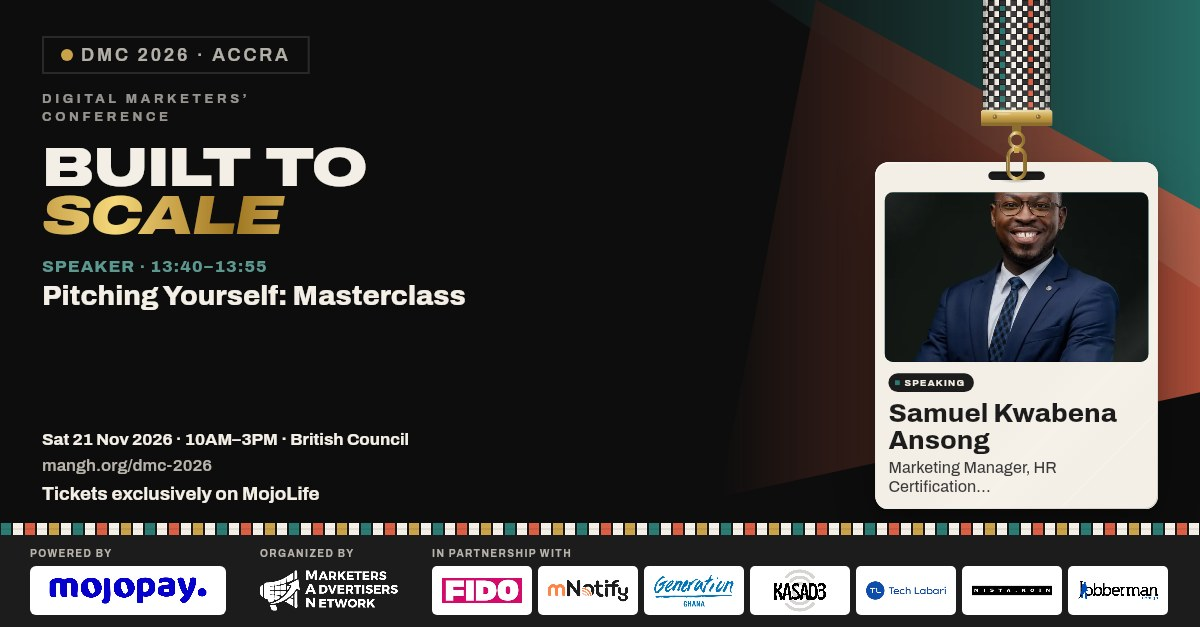
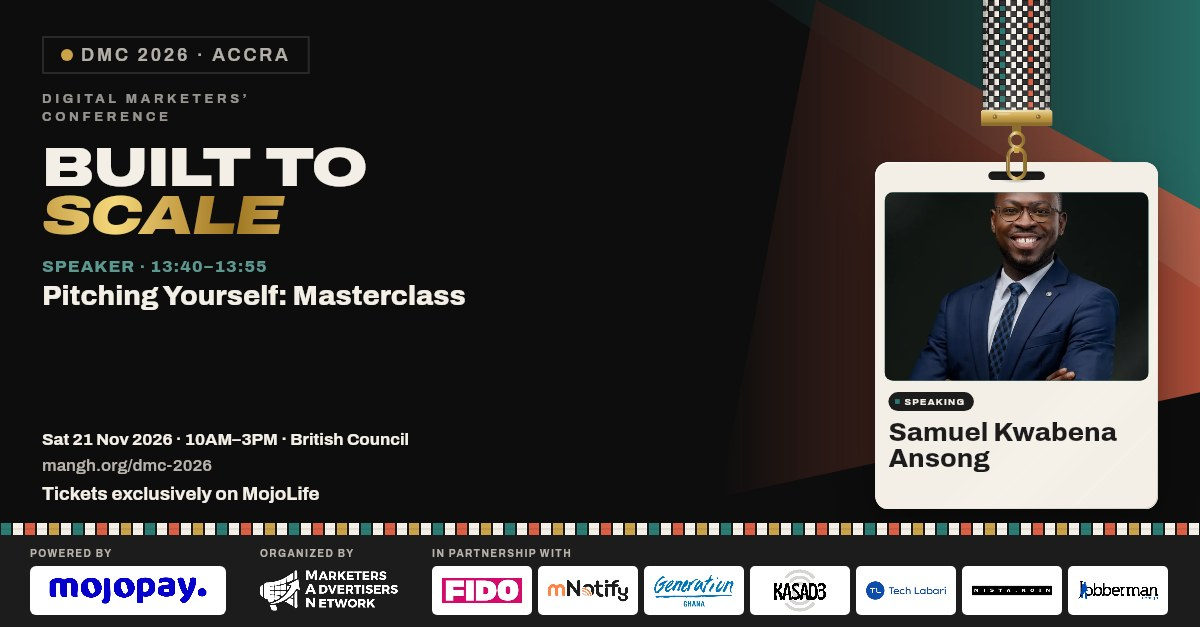
content: Enoch W. Kabange (not Enoch K. Weguri); Samuel Kwabena Ansong by name only (#60)
- Enoch's name on the speaker card, alt text, schedule, FAQ (HTML and JSON-LD), full bio,
  llm.txt/llms.txt and Studio data; Studio slug becomes enoch-w-kabange (he has no speaker page).
- Samuel: role line, bio sentence, press list role, llm/llms role, Studio title/company,
  speaker page meta description, JSON-LD jobTitle/worksFor and role line all removed.
- Studio renderer: a speaker with no role no longer gets the flyer's grey "Your role" hint
  (it showed on Samuel's regenerated OG image).

Changed region(s): [[0.74, 0.303, 0.9558, 0.7879]]

diff --git a/dmc-2026.html b/dmc-2026.html
@@ -232,7 +232,7 @@
    "name": "Who is speaking?",
    "acceptedAnswer": {
     "@type": "Answer",
-    "text": "Confirmed so far: Isaac Newton Acquah, Alex Offei Lartey, Ronald Tagoe, Emelia Dede Quist, Kwaku Ofosuhene, Sena Quashie, Simon Alangde, Florentia Teye, Yvonne Dumor, Elikplim Yaa Ayegbe, Carrington Amuh and Samuel Kwabena Ansong, with Alice Mensah, Enoch “RobotBoy” Appiah Jr. and Enoch K. Weguri as moderators, Deborah Narh as emcee, and a keynote from Russel Eni. Breakout sessions are led by Venus Tawiah, Priscilla Osei-Wusu and Amma Odamea Amoako. Meet the speakers."
+    "text": "Confirmed so far: Isaac Newton Acquah, Alex Offei Lartey, Ronald Tagoe, Emelia Dede Quist, Kwaku Ofosuhene, Sena Quashie, Simon Alangde, Florentia Teye, Yvonne Dumor, Elikplim Yaa Ayegbe, Carrington Amuh and Samuel Kwabena Ansong, with Alice Mensah, Enoch “RobotBoy” Appiah Jr. and Enoch W. Kabange as moderators, Deborah Narh as emcee, and a keynote from Russel Eni. Breakout sessions are led by Venus Tawiah, Priscilla Osei-Wusu and Amma Odamea Amoako. Meet the speakers."
    }
   },
   {
@@ -384,7 +384,7 @@
       <div class="srow sr d2"><div class="st"><div class="ti">10:00</div><div class="ap">10:10</div></div><div class="sb"><span class="badge b-drs">Welcome</span><h3>Welcome &amp; Opening Remarks</h3><div class="sd">Naomi Boakyewaa Kokuro</div></div></div>
       <div class="srow sr d3"><div class="st"><div class="ti">10:10</div><div class="ap">10:25</div></div><div class="sb mov"><span class="badge b-key">Keynote</span><h3>Keynote</h3><div class="sd">Russel Eni</div></div></div>
       <div class="srow sr d1"><div class="st"><div class="ti">10:25</div><div class="ap">10:35</div></div><div class="sb mov"><span class="badge b-key">Presentation</span><h3>Build Yourself: Presentation</h3><div class="sd">Isaac Newton Acquah</div></div></div>
-      <div class="srow sr d2"><div class="st"><div class="ti">10:35</div><div class="ap">11:05</div></div><div class="sb mov"><span class="badge b-key">Panel</span><h3>Build Yourself: Panel Discussion</h3><div class="sd">Alex Offei Lartey · Ronald Tagoe · Emelia Dede Quist — moderated by Enoch K. Weguri</div></div></div>
+      <div class="srow sr d2"><div class="st"><div class="ti">10:35</div><div class="ap">11:05</div></div><div class="sb mov"><span class="badge b-key">Panel</span><h3>Build Yourself: Panel Discussion</h3><div class="sd">Alex Offei Lartey · Ronald Tagoe · Emelia Dede Quist — moderated by Enoch W. Kabange</div></div></div>
       <div class="srow sr d3"><div class="st"><div class="ti">11:05</div><div class="ap">11:15</div></div><div class="sb"><span class="badge b-brk">Break</span><h3>Morning Network Break</h3></div></div>
       <div class="srow sr d1"><div class="st"><div class="ti">11:15</div><div class="ap">11:25</div></div><div class="sb mov"><span class="badge b-key">Presentation</span><h3>Build Your Team: Presentation</h3><div class="sd">Kwaku Ofosuhene · MojoPay</div></div></div>
       <div class="srow sr d2"><div class="st"><div class="ti">11:25</div><div class="ap">11:55</div></div><div class="sb mov"><span class="badge b-key">Panel</span><h3>Build Your Team: Panel Discussion</h3><div class="sd">Sena Quashie · Simon Alangde · Florentia Teye — moderated by Alice Mensah</div></div></div>
@@ -422,7 +422,7 @@
       <div class="spc sr d2"><div class="sp-photo"><img src="/assets/speakers/alex-offei-lartey.webp" alt="Alex Offei Lartey" width="900" height="1200" loading="lazy" decoding="async"></div><div class="sp-info"><div class="spc-cat">Panel · Build Yourself</div><div class="spn">Alex Offei Lartey</div><div class="sp-role">Marketing Communications &amp; Digital Solutions Consultant</div><div class="sp-bio">15+ years across tech, banking, telecom and upstream oil &amp; gas. Leads corporate affairs at GNPC Explorco.</div><details class="sp-more"><summary>Full bio</summary><p>Alex has 15+ years of experience in tech, banking, telecom and upstream oil and gas, with expertise in digital solutions and marketing communications. He leads corporate affairs at GNPC Explorco and previously led digital communications and commercial innovation at AT Ghana, formerly AirtelTigo. He also consults for the African Union Youth Division, Mind Builders Africa and NCVO, facilitating masterclasses on digital skills and communication for young people and startups. He was named Digital Influencer of the Year at the 2022 Ghana Information Technology &amp; Telecom Awards, Digital Marketing Personality of the Year at the National Communications Awards, and Internal Communicator of the Year at the 2017 National PR Excellence Awards.</p></details><a class="sp-page" href="/speakers/alex-offei-lartey">Speaker profile →</a></div></div>
       <div class="spc sr d3"><div class="sp-photo"><img src="/assets/speakers/ronald-tagoe.webp" alt="Ronald Tagoe" width="765" height="1020" loading="lazy" decoding="async"></div><div class="sp-info"><div class="spc-cat">Panel · Build Yourself</div><div class="spn">Ronald Tagoe</div><div class="sp-role">Founder &amp; CEO, mNotify · Founder, Impact AI Labs</div><div class="sp-bio">Technology entrepreneur and AI advocate helping organisations across Africa adopt emerging technologies to improve communication, productivity and service delivery.</div><details class="sp-more"><summary>Full bio</summary><p>Ronald Tagoe is a technology entrepreneur, Artificial Intelligence advocate and digital transformation facilitator with over a decade of experience supporting organisations across Africa to adopt emerging technologies. He is the Founder and CEO of mNotify, a leading customer engagement technology company in Ghana whose communication and automation platforms are used by businesses, NGOs and institutions to engage millions of users across Africa. He is also the Founder of Impact AI Labs, an initiative that equips entrepreneurs, professionals and organisations with practical knowledge and tools to adopt AI. His expertise spans AI adoption strategy, conversational AI, prompt engineering and AI-powered customer engagement. He holds certifications in areas including AI for Business, AI Product Management and Responsible AI from institutions such as the University of Pennsylvania, Duke University, Google Cloud, the Project Management Institute and IBM.</p></details><a class="sp-page" href="/speakers/ronald-tagoe">Speaker profile →</a></div></div>
       <div class="spc sr"><div class="sp-photo"><img src="/assets/speakers/emelia-dede-quist.webp" alt="Emelia Dede Quist" width="630" height="840" loading="lazy" decoding="async"></div><div class="sp-info"><div class="spc-cat">Panel · Build Yourself</div><div class="spn">Emelia Dede Quist</div><div class="sp-role">Employer Engagement Manager, Generation Ghana</div><div class="sp-bio">PMP®-certified employer engagement and business development professional dedicated to strengthening Africa’s talent ecosystem.</div><details class="sp-more"><summary>Full bio</summary><p>Emelia Dede Quist is a PMP®-certified Employer Engagement and Business Development professional dedicated to strengthening Africa’s talent ecosystem. At Generation Ghana, she leads strategic employer partnerships that connect skilled young people to meaningful tech-based work opportunities. Passionate about breaking longstanding patterns that limit access to employment, socio-economic mobility and representation, she champions pathways into tech and digital roles for youth, minorities and women.</p></details><a class="sp-page" href="/speakers/emelia-dede-quist">Speaker profile →</a></div></div>
-      <div class="spc sr d1"><div class="sp-photo"><img src="/assets/speakers/enoch-w-kabange.webp" alt="Enoch K. Weguri" width="900" height="1200" loading="lazy" decoding="async"></div><div class="sp-info"><div class="spc-cat">Moderator · Build Yourself Panel</div><div class="spn">Enoch K. Weguri</div><div class="sp-role">CRM &amp; Digital Marketing Lead, Points Africa · Alien Media</div><div class="sp-bio">Accra-based marketing strategist focused on CRM, content and growth; founder of SydCrest and a Global Shaper, WEF Accra Hub.</div><details class="sp-more"><summary>Full bio</summary><p>Enoch K. Weguri is a marketing strategist based in Accra, with a focus on CRM, content and growth. He leads CRM and digital marketing at Points Africa, Ghana’s first coalition loyalty network, and runs Alien Media, a performance marketing agency. He holds a master’s in marketing strategy and a first degree in economics and linguistics. Enoch is also the founder of SydCrest, a youth digital skills initiative in northern Ghana, and a Global Shaper in the World Economic Forum’s Accra Hub.</p></details></div></div>
+      <div class="spc sr d1"><div class="sp-photo"><img src="/assets/speakers/enoch-w-kabange.webp" alt="Enoch W. Kabange" width="900" height="1200" loading="lazy" decoding="async"></div><div class="sp-info"><div class="spc-cat">Moderator · Build Yourself Panel</div><div class="spn">Enoch W. Kabange</div><div class="sp-role">CRM &amp; Digital Marketing Lead, Points Africa · Alien Media</div><div class="sp-bio">Accra-based marketing strategist focused on CRM, content and growth; founder of SydCrest and a Global Shaper, WEF Accra Hub.</div><details class="sp-more"><summary>Full bio</summary><p>Enoch W. Kabange is a marketing strategist based in Accra, with a focus on CRM, content and growth. He leads CRM and digital marketing at Points Africa, Ghana’s first coalition loyalty network, and runs Alien Media, a performance marketing agency. He holds a master’s in marketing strategy and a first degree in economics and linguistics. Enoch is also the founder of SydCrest, a youth digital skills initiative in northern Ghana, and a Global Shaper in the World Economic Forum’s Accra Hub.</p></details></div></div>
       <div class="spc sr d1"><div class="sp-photo"><img src="/assets/speakers/kwaku-asare-ofosuhene.webp" alt="Kwaku Ofosuhene" width="600" height="799" loading="lazy" decoding="async"></div><div class="sp-info"><div class="spc-cat">Build Your Team: Presentation · MojoPay</div><div class="spn">Kwaku Ofosuhene</div><div class="sp-role">Chief Commercial Officer, Mojo Payments</div><div class="sp-bio">Commercial and events leader with over nineteen years of experience across fintech, telecommunications and premium corporate engagements.</div><details class="sp-more"><summary>Full bio</summary><p>Kwaku Asare Ofosuhene is a commercial and events leader with over nineteen years of experience across fintech, telecommunications and premium corporate engagements in Africa and international markets. He is the Chief Commercial Officer of Mojo Payments Limited (MojoPay), a Bank of Ghana-licensed Enhanced Payment Service Provider, where he oversees commercial strategy, business development, partnerships, products and marketing. He is the Founder of Strategic Plus Solutions, a consultancy that has directed international conferences and technology summits engaging over five hundred C-level executives across six African markets. His earlier career includes commercial roles at Vodafone Ghana, where he played a pivotal operational role in the development of Vodafone Cash, and at M-KOPA Ghana, where he led national sales operations as Head of Sales. He holds an MBA in International Business and Strategic Management from the University of South Wales, a Project Management Professional (PMP) certificate and a Certificate in Entrepreneurship in Emerging Markets from Harvard Business School. He is also the founder of LYF Arena, a wellness platform for the African market.</p></details><a class="sp-page" href="/speakers/kwaku-ofosuhene">Speaker profile →</a></div></div>
       <div class="spc sr d2"><div class="sp-photo"><img src="/assets/speakers/richard-sena-quashie.webp" alt="Sena Quashie" width="900" height="1200" loading="lazy" decoding="async"></div><div class="sp-info"><div class="spc-cat">Panel · Build Your Team</div><div class="spn">Sena Quashie</div><div class="sp-role">General Manager, MG Digital</div><div class="sp-bio">General Manager of MG Digital, the digital business of Media General Ghana. Leads the group’s digital products, commercial growth and AI adoption.</div><details class="sp-more"><summary>Full bio</summary><p>Sena Quashie (MCIM) is General Manager of MG Digital, the digital business of Media General Ghana. He leads digital strategy, product and revenue across TV3, Onua TV, 3FM, 3News, 3Xtra and the streaming service adesa+, a portfolio that reaches more than 20 million Ghanaians a month. Since 2022 he has rebuilt MG Digital from an internal support function into a commercial business, launching adesa+, the mgTix ticketing platform and an in-house identity system. A senior full stack engineer as well as a manager, he leads the group’s AI adoption work, including AI literacy training for staff and the application of AI across production, distribution and audience analytics. He previously led Meta’s authorised sales partner operation for Ghana at Entravision and helped build Pulse Ghana from launch. He is also co-founder and Managing Director of WMS Africa.</p></details><a class="sp-page" href="/speakers/sena-quashie">Speaker profile →</a></div></div>
       <div class="spc sr d3"><div class="sp-photo"><img src="/assets/speakers/simon-alangde.webp" alt="Simon Alangde" width="600" height="800" loading="lazy" decoding="async"></div><div class="sp-info"><div class="spc-cat">Panel · Build Your Team</div><div class="spn">Simon Alangde</div><div class="sp-role">Wineloya Digital</div><div class="sp-bio">Strategic technology leader and Founder of Wineloya Digital Ltd.</div><details class="sp-more"><summary>Full bio</summary><p>Simon Wineloya Alangde is a strategic technology leader, and the Founder of Wineloya Digital Ltd. With proven track record in enterprise outsourcing, digital strategy, skills development, and interactive media; Simon combines technical rigor with visionary leadership. Under his direction, Wineloya Digital continues to deliver global tech solutions while nurturing local talent.</p></details><a class="sp-page" href="/speakers/simon-alangde">Speaker profile →</a></div></div>
@@ -433,7 +433,7 @@
       <div class="spc sr d2"><div class="sp-photo"><img src="/assets/speakers/carrington-amuh.webp" alt="Carrington Amuh" width="900" height="1200" loading="lazy" decoding="async"></div><div class="sp-info"><div class="spc-cat">Panel · Build Your Work</div><div class="spn">Carrington Amuh</div><div class="sp-role">Creative Lead, FIDO</div><div class="sp-bio">Creative and technology professional whose work spans marketing design, creative direction, motion design, web and UI/UX design, and digital campaigns.</div><details class="sp-more"><summary>Full bio</summary><p>Carrington Amuh is a multidisciplinary creative and technology professional whose work connects brand storytelling, digital marketing, design and technology. As Creative Lead at FIDO, he brings ideas to life through marketing design and creative direction, helping translate business and product objectives into clear, engaging communication across digital channels. His experience spans graphic design, motion design, video production, web design, UI/UX and digital campaign development, with work across sectors including fintech and real estate. His earlier experience includes technology leadership and digital communications. Alongside his creative career, he works in information security and has served as an ISO 27001 Lead Implementer. He holds a BSc in Information Technology.</p></details><a class="sp-page" href="/speakers/carrington-amuh">Speaker profile →</a></div></div>
       <div class="spc sr d3"><div class="sp-photo"><img src="/assets/speakers/enoch-appiah-jr.webp" alt="Enoch &quot;RobotBoy&quot; Appiah Jr." width="600" height="800" loading="lazy" decoding="async"></div><div class="sp-info"><div class="spc-cat">Moderator · Build Your Work Panel</div><div class="spn">Enoch "RobotBoy" Appiah Jr.</div><div class="sp-role">Host, Colours of Social Media Podcast · Performance Marketing Specialist · Co-Founder, M·A·N</div><div class="sp-bio">Performance marketing specialist with 10+ years in digital marketing across Africa; hosts the COSM podcast and records a live episode at DMC 2026.</div><details class="sp-more"><summary>Full bio</summary><p>Enoch “RobotBoy” Appiah Jr. is a performance marketing specialist and paid-ads expert with more than ten years in digital marketing across Africa, working with clients from start-ups to multinationals across social media, email and search. As a Digital Media Planner and Strategist at iProspect he worked on Nestlé brands, telecoms and B2B companies, and he has led digital marketing for KAEME and the International Community School, Ghana. Since 2018 he has hosted Colours of Social Media (COSM), a podcast of conversations with peers in Africa’s digital marketing industry; at DMC 2026 he records a live episode with the Build Your Work panel. He is a co-founder of the Marketers &amp; Advertisers Network (M·A·N) and holds a BSc in Applied Biology from the University for Development Studies, where he was named best entrepreneur of 2013/14 for setting up the campus’s first internet hub.</p></details></div></div>
       <div class="spc sr d2"><div class="sp-photo"><img src="/assets/speakers/maame.webp" alt="Naomi Boakyewaa Kokuro" width="900" height="1200" loading="lazy" decoding="async"></div><div class="sp-info"><div class="spc-cat">Welcome &amp; Opening Remarks · Ice Breaker</div><div class="spn">Naomi Boakyewaa Kokuro</div><div class="sp-role">Marketing Lead, M·A·N</div><div class="sp-bio">Leads marketing, comms and community for M·A·N. She gives the 10:00 welcome and opening remarks and runs the 13:10 ice breaker: pitch yourself in 60 seconds.</div></div></div>
-      <div class="spc sr"><div class="sp-photo"><img src="/assets/speakers/samuel-kwabena-ansong.webp" alt="Samuel Kwabena Ansong" width="720" height="960" loading="lazy" decoding="async"></div><div class="sp-info"><div class="spc-cat">Pitching Yourself: Masterclass</div><div class="spn">Samuel Kwabena Ansong</div><div class="sp-role">Marketing Manager, HR Certification Centre</div><div class="sp-bio">Digital marketer and media buyer (Facebook, Instagram, Twitter, LinkedIn and Google Ads) with experience across media, insurance and logistics.</div><details class="sp-more"><summary>Full bio</summary><p>Samuel Kwabena Ansong is a digital marketer, social media manager, graphic designer, photographer and videographer, and an expert in online media buying across Facebook, Instagram, Twitter, LinkedIn and Google Ads. He is Marketing Manager at the HR Certification Centre. He previously worked as Digital Marketing and Communications Officer at Prudential Life Insurance Ghana and as digital marketing manager at GLICO Holdings. Earlier, he oversaw social media for Connect FM at Media General (TV3) in Takoradi, then became head of the marketing department at TIAST Group West Africa. He is a Takoradi Technical University alumnus and works as a freelance event photographer.</p></details><a class="sp-page" href="/speakers/samuel-kwabena-ansong">Speaker profile →</a></div></div>
+      <div class="spc sr"><div class="sp-photo"><img src="/assets/speakers/samuel-kwabena-ansong.webp" alt="Samuel Kwabena Ansong" width="720" height="960" loading="lazy" decoding="async"></div><div class="sp-info"><div class="spc-cat">Pitching Yourself: Masterclass</div><div class="spn">Samuel Kwabena Ansong</div><div class="sp-bio">Digital marketer and media buyer (Facebook, Instagram, Twitter, LinkedIn and Google Ads) with experience across media, insurance and logistics.</div><details class="sp-more"><summary>Full bio</summary><p>Samuel Kwabena Ansong is a digital marketer, social media manager, graphic designer, photographer and videographer, and an expert in online media buying across Facebook, Instagram, Twitter, LinkedIn and Google Ads. He previously worked as Digital Marketing and Communications Officer at Prudential Life Insurance Ghana and as digital marketing manager at GLICO Holdings. Earlier, he oversaw social media for Connect FM at Media General (TV3) in Takoradi, then became head of the marketing department at TIAST Group West Africa. He is a Takoradi Technical University alumnus and works as a freelance event photographer.</p></details><a class="sp-page" href="/speakers/samuel-kwabena-ansong">Speaker profile →</a></div></div>
       <div class="spc sr d1"><div class="sp-photo"><img src="/assets/speakers/venus-tawiah-2026.webp" alt="Venus Tawiah" width="900" height="1200" loading="lazy" decoding="async"></div><div class="sp-info"><div class="spc-cat">Breakout A · Building Your Team</div><div class="spn">Venus Tawiah</div><div class="sp-role">CEO, The Missing Link · Director of Global Partnerships &amp; Lions Rep, AAG · Director, Women’s eSports, eSports Association Ghana (EAG)</div></div></div>
       <div class="spc sr d2"><div class="sp-photo"><img src="/assets/speakers/priscilla-osei-wusu.webp" alt="Priscilla Osei-Wusu" width="853" height="1137" loading="lazy" decoding="async"></div><div class="sp-info"><div class="spc-cat">Breakout B · Building Yourself</div><div class="spn">Priscilla Osei-Wusu</div><div class="sp-role">Marketing Communications Professional, Petra Fund Services</div><div class="sp-bio">Communications and marketing professional helping people build visibility online; convener of the Digital You community.</div><details class="sp-more"><summary>Full bio</summary><p>Priscilla Osei-Wusu is a communications and marketing professional at Petra Fund Services, focused on helping people build visibility online. She convenes the Digital You community, co-founded PersonHours, which works on AI-powered automation, and brings insight from IT law, connecting visibility, technology and growth.</p></details></div></div>
       <div class="spc sr d3"><div class="sp-photo"><img src="/assets/speakers/amma-odamea-amoako.webp" alt="Amma Odamea Amoako" width="900" height="1200" loading="lazy" decoding="async"></div><div class="sp-info"><div class="spc-cat">Breakout C · Building Your Work</div><div class="spn">Amma Odamea Amoako</div><div class="sp-role">Digital Account Manager · Founder, Generation Shift Africa</div><div class="sp-bio">Certified Google digital marketer, creative strategist and legal professional; author of seven books, including The Branding Advantage.</div><details class="sp-more"><summary>Full bio</summary><p>Amma Odamea Amoako is a certified Google digital marketer, creative strategist and legal professional working at the intersection of brand growth, intellectual property and tech policy. As a Digital Account Manager in the advertising ecosystem, she drives digital campaigns and commercial strategy for major players in fintech, telecom and automotive. A law graduate and trained pharmacist, she moved quickly into the creative industry through self-directed work, and makes sure campaigns are commercially compelling as well as technically and legally sound. She is the author of seven books, including The Branding Advantage and The LinkedIn Lift, and the founder of Generation Shift Africa, whose capacity-building initiatives have reached young professionals and creators in 20 African countries. Through Uncodified, her tech law and policy newsletter, she explains where digital marketing, copyright and IP protection, and emerging AI tools meet for creators and digital operators.</p></details></div></div>
@@ -496,7 +496,7 @@
     <details class="faq-i"><summary>How much is a ticket and where do I buy it?</summary><div class="faq-a"><p>Tickets are GH₵150. Tickets are sold through MojoPay, the official ticketing platform, and <a href="https://tickets.mojo-pay.com/events/digital-marketers-conference-2026" target="_blank" rel="noopener noreferrer">the ticket page</a> always shows the current price.</p></div></details>
     <details class="faq-i"><summary>Who is DMC 2026 for?</summary><div class="faq-a"><p>DMC 2026 is for Ghana's marketing and advertising professionals. The programme is organised around three themes — Build Yourself, Build Your Team and Build Your Work — so there is something for individuals, team leads and business builders.</p></div></details>
     <details class="faq-i"><summary>What is on the programme?</summary><div class="faq-a"><p>The day has keynotes, panel discussions, partner presentations, a pitching masterclass and three breakout sessions (14:05–14:25), across the themes Build Yourself, Build Your Team and Build Your Work. See the <a href="/dmc-2026#programme">full schedule</a>.</p></div></details>
-    <details class="faq-i"><summary>Who is speaking?</summary><div class="faq-a"><p>Confirmed so far: Isaac Newton Acquah, Alex Offei Lartey, Ronald Tagoe, Emelia Dede Quist, Kwaku Ofosuhene, Sena Quashie, Simon Alangde, Florentia Teye, Yvonne Dumor, Elikplim Yaa Ayegbe, Carrington Amuh and Samuel Kwabena Ansong, with Alice Mensah, Enoch “RobotBoy” Appiah Jr. and Enoch K. Weguri as moderators, Deborah Narh as emcee, and a keynote from Russel Eni. Breakout sessions are led by Venus Tawiah, Priscilla Osei-Wusu and Amma Odamea Amoako. <a href="/dmc-2026#speakers">Meet the speakers</a>.</p></div></details>
+    <details class="faq-i"><summary>Who is speaking?</summary><div class="faq-a"><p>Confirmed so far: Isaac Newton Acquah, Alex Offei Lartey, Ronald Tagoe, Emelia Dede Quist, Kwaku Ofosuhene, Sena Quashie, Simon Alangde, Florentia Teye, Yvonne Dumor, Elikplim Yaa Ayegbe, Carrington Amuh and Samuel Kwabena Ansong, with Alice Mensah, Enoch “RobotBoy” Appiah Jr. and Enoch W. Kabange as moderators, Deborah Narh as emcee, and a keynote from Russel Eni. Breakout sessions are led by Venus Tawiah, Priscilla Osei-Wusu and Amma Odamea Amoako. <a href="/dmc-2026#speakers">Meet the speakers</a>.</p></div></details>
     <details class="faq-i"><summary>How do I get to the venue?</summary><div class="faq-a"><p>The venue is on Liberia Road, Accra. Uber and Bolt are available across Accra, there is a drop-off point at the main entrance and parking is available nearby. Kotoka International Airport is about 30–45 minutes away. See the <a href="/dmc-2026#travel">travel guide</a>.</p></div></details>
     <details class="faq-i"><summary>How can my company partner with DMC?</summary><div class="faq-a"><p>Partnerships for DMC 2026 are now closed. MojoPay is our Gold title sponsor, Generation Ghana and FIDO are Silver sponsors, and Jobberman is a Bronze sponsor. To partner with DMC 2027, register your interest on the <a href="/partners#interest">partnerships page</a>.</p></div></details>
     <details class="faq-i"><summary>Can I tell people I'm attending?</summary><div class="faq-a"><p>Yes. The <a href="/dmc-2026#flyer">Make Your Flyer</a> tool lets you choose a template, add your name and role (and a photo, if you like), and download or share a personal flyer with a ready-made caption.</p></div></details>

diff --git a/speakers/samuel-kwabena-ansong.html b/speakers/samuel-kwabena-ansong.html
@@ -41,7 +41,7 @@
   gtag('config', 'G-CDT1GX4GJ6', gaCfg);
 </script>
 <title>Samuel Kwabena Ansong · Speaker · DMC 2026 | M·A·N</title>
-<meta name="description" content="Samuel Kwabena Ansong (Marketing Manager, HR Certification Centre) speaks at DMC 2026 — Built To Scale: Pitching Yourself: Masterclass, 13:40–13:55, Sat 21 Nov 2026, British Council Accra. Tickets GH₵ 150, exclusively on MojoLife.">
+<meta name="description" content="Samuel Kwabena Ansong speaks at DMC 2026 — Built To Scale: Pitching Yourself: Masterclass, 13:40–13:55, Sat 21 Nov 2026, British Council Accra. Tickets GH₵ 150, exclusively on MojoLife.">
 <link rel="canonical" href="https://mangh.org/speakers/samuel-kwabena-ansong">
 <meta name="robots" content="index, follow, max-image-preview:large">
 <meta name="theme-color" content="#1C1C1C">
@@ -55,14 +55,14 @@
 <meta property="og:title" content="Samuel Kwabena Ansong · Speaker at DMC 2026 — Built To Scale">
 <meta property="og:description" content="Pitching Yourself: Masterclass · 13:40–13:55 · Sat 21 Nov 2026, British Council Accra. Tickets GH₵ 150, exclusively on MojoLife.">
 <meta property="og:url" content="https://mangh.org/speakers/samuel-kwabena-ansong">
-<meta property="og:image" content="https://mangh.org/assets/speakers/og/samuel-kwabena-ansong.jpg?v=8ffe7554">
+<meta property="og:image" content="https://mangh.org/assets/speakers/og/samuel-kwabena-ansong.jpg?v=aec38a32">
 <meta property="og:image:width" content="1200">
 <meta property="og:image:height" content="627">
 <meta property="og:image:alt" content="Samuel Kwabena Ansong, Speaker at DMC 2026 — Built To Scale. 21 November 2026, British Council Accra.">
 <meta name="twitter:card" content="summary_large_image">
 <meta name="twitter:title" content="Samuel Kwabena Ansong · Speaker at DMC 2026">
 <meta name="twitter:description" content="Pitching Yourself: Masterclass · 13:40–13:55 · Sat 21 Nov 2026, British Council Accra.">
-<meta name="twitter:image" content="https://mangh.org/assets/speakers/og/samuel-kwabena-ansong.jpg?v=8ffe7554">
+<meta name="twitter:image" content="https://mangh.org/assets/speakers/og/samuel-kwabena-ansong.jpg?v=aec38a32">
 <link rel="preload" href="/assets/fonts/archivo-normal.woff2" as="font" type="font/woff2" crossorigin>
 <link rel="stylesheet" href="/assets/styles.css?v=9e4699bc">
 <link rel="stylesheet" href="/assets/speaker-page.css?v=b3e69068">
@@ -74,11 +74,6 @@
  "name": "Samuel Kwabena Ansong",
  "url": "https://mangh.org/speakers/samuel-kwabena-ansong",
  "image": "https://mangh.org/assets/speakers/samuel-kwabena-ansong.webp",
- "jobTitle": "Marketing Manager",
- "worksFor": {
-  "@type": "Organization",
-  "name": "HR Certification Centre"
- },
  "description": "Digital marketer and media buyer (Facebook, Instagram, Twitter, LinkedIn and Google Ads) with experience across media, insurance and logistics.",
  "performerIn": {
   "@id": "https://mangh.org/dmc-2026#event"
@@ -125,13 +120,13 @@
       <div class="spk-info">
         <span class="spk-kind">Speaker · DMC 2026</span>
         <h1 itemprop="name">Samuel Kwabena Ansong</h1>
-        <p class="spk-role">Marketing Manager, HR Certification Centre</p>
+        
         <div class="spk-sess">
           
           <span class="spk-st">Pitching Yourself: Masterclass</span>
           <span class="spk-sw">Sat 21 Nov 2026 · 13:40–13:55 · British Council, Accra</span>
         </div>
-        <div class="spk-bio" itemprop="description"><p>Samuel Kwabena Ansong is a digital marketer, social media manager, graphic designer, photographer and videographer, and an expert in online media buying across Facebook, Instagram, Twitter, LinkedIn and Google Ads. He is Marketing Manager at the HR Certification Centre. He previously worked as Digital Marketing and Communications Officer at Prudential Life Insurance Ghana and as digital marketing manager at GLICO Holdings. Earlier, he oversaw social media for Connect FM at Media General (TV3) in Takoradi, then became head of the marketing department at TIAST Group West Africa. He is a Takoradi Technical University alumnus and works as a freelance event photographer.</p></div>
+        <div class="spk-bio" itemprop="description"><p>Samuel Kwabena Ansong is a digital marketer, social media manager, graphic designer, photographer and videographer, and an expert in online media buying across Facebook, Instagram, Twitter, LinkedIn and Google Ads. He previously worked as Digital Marketing and Communications Officer at Prudential Life Insurance Ghana and as digital marketing manager at GLICO Holdings. Earlier, he oversaw social media for Connect FM at Media General (TV3) in Takoradi, then became head of the marketing department at TIAST Group West Africa. He is a Takoradi Technical University alumnus and works as a freelance event photographer.</p></div>
         <div class="spk-cta">
           <a class="btn btn-f" href="https://tickets.mojo-pay.com/events/digital-marketers-conference-2026" target="_blank" rel="noopener noreferrer">Get Tickets — GH₵ 150 →</a>
           <a class="btn btn-cr" href="/dmc-2026#programme">Full Programme</a>

diff --git a/press.html b/press.html
@@ -163,7 +163,7 @@
   <section class="pr-sec" id="people">
     <h2>Speakers and hosts</h2>
     <p class="pr-note">Keynote: Russel Eni, Founder &amp; CEO of Insel Communications. Emcee: Deborah Narh. See the <a href="/dmc-2026#speakers">speakers section</a> for the latest.</p>
-    <ul class="pr-list"><li><b>Russel Eni</b><span>Keynote · Founder &amp; CEO, Insel Communications; AAG Executive Council Member</span></li><li><b>Isaac Newton Acquah</b><span>Co-Founder, The Innovation Spark</span></li><li><b>Alex Offei Lartey</b><span>Marketing Communications &amp; Digital Solutions Consultant</span></li><li><b>Ronald Tagoe</b><span>Founder &amp; CEO, mNotify; Founder, Impact AI Labs</span></li><li><b>Emelia Dede Quist</b><span>Employer Engagement Manager, Generation Ghana</span></li><li><b>Kwaku Ofosuhene</b><span>Chief Commercial Officer, Mojo Payments</span></li><li><b>Samuel Kwabena Ansong</b><span>Marketing Manager, HR Certification Centre</span></li><li><b>Sena Quashie</b><span>General Manager, MG Digital</span></li><li><b>Simon Alangde</b><span>Wineloya Digital</span></li><li><b>Florentia Teye</b><span>Capacity Development Professional, Digital Sales</span></li><li><b>Yvonne Dumor</b><span>Administrative Business Partner and Program Lead, Google Research</span></li><li><b>Elikplim Yaa Ayegbe</b><span>Jobberman</span></li><li><b>Carrington Amuh</b><span>Creative Lead, FIDO</span></li><li><b>Alice Mensah</b><span>Host, Build Your Team panel; Co-Founder, MAN</span></li><li><b>Enoch “RobotBoy” Appiah Jr.</b><span>Host, COSM Podcast</span></li><li><b>Deborah Narh</b><span>Emcee · Storytelling &amp; Creative Strategist</span></li><li><b>Venus Tawiah</b><span>Breakout A lead · CEO, The Missing Link; Director, Women’s eSports, eSports Association Ghana</span></li><li><b>Priscilla Osei-Wusu</b><span>Breakout B lead · Marketing Communications Professional, Petra Fund Services</span></li><li><b>Amma Odamea Amoako</b><span>Breakout C lead · Digital Account Manager; founder, Generation Shift Africa</span></li></ul>
+    <ul class="pr-list"><li><b>Russel Eni</b><span>Keynote · Founder &amp; CEO, Insel Communications; AAG Executive Council Member</span></li><li><b>Isaac Newton Acquah</b><span>Co-Founder, The Innovation Spark</span></li><li><b>Alex Offei Lartey</b><span>Marketing Communications &amp; Digital Solutions Consultant</span></li><li><b>Ronald Tagoe</b><span>Founder &amp; CEO, mNotify; Founder, Impact AI Labs</span></li><li><b>Emelia Dede Quist</b><span>Employer Engagement Manager, Generation Ghana</span></li><li><b>Kwaku Ofosuhene</b><span>Chief Commercial Officer, Mojo Payments</span></li><li><b>Samuel Kwabena Ansong</b></li><li><b>Sena Quashie</b><span>General Manager, MG Digital</span></li><li><b>Simon Alangde</b><span>Wineloya Digital</span></li><li><b>Florentia Teye</b><span>Capacity Development Professional, Digital Sales</span></li><li><b>Yvonne Dumor</b><span>Administrative Business Partner and Program Lead, Google Research</span></li><li><b>Elikplim Yaa Ayegbe</b><span>Jobberman</span></li><li><b>Carrington Amuh</b><span>Creative Lead, FIDO</span></li><li><b>Alice Mensah</b><span>Host, Build Your Team panel; Co-Founder, MAN</span></li><li><b>Enoch “RobotBoy” Appiah Jr.</b><span>Host, COSM Podcast</span></li><li><b>Deborah Narh</b><span>Emcee · Storytelling &amp; Creative Strategist</span></li><li><b>Venus Tawiah</b><span>Breakout A lead · CEO, The Missing Link; Director, Women’s eSports, eSports Association Ghana</span></li><li><b>Priscilla Osei-Wusu</b><span>Breakout B lead · Marketing Communications Professional, Petra Fund Services</span></li><li><b>Amma Odamea Amoako</b><span>Breakout C lead · Digital Account Manager; founder, Generation Shift Africa</span></li></ul>
     <p class="pr-note">Speaker photos and biographies are available from the organisers on request.</p>
   </section>
 

diff --git a/lib/studio/render.js b/lib/studio/render.js
@@ -195,6 +195,8 @@ function badgeState(t, f, a, L) {
   };
   const N = FLY.normalize(S);
   N.noQR = !a.qrUrl;
+  /* a speaker listed by name only has no role line: the public flyer's grey "Your role" hint must not print on their art */
+  if (t === 'speaker' && N.roleEmpty) N.roleShown = '';
   if (t === 'speaker') {
     const role = clean(f.role || 'Speaker', 24).toUpperCase();
     /* the emcee works the whole day, so her flyer has no session to announce and her chip says EMCEE, not SPEAKING */
